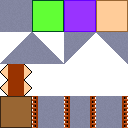
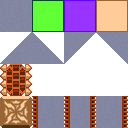
made crouching/crawling animations, slowed crawl speed, added delay before jump (small refactor)

Changed region(s): [[0.0, 0.5, 0.25, 1.0]]

diff --git a/src/platform_controls.js b/src/platform_controls.js
@@ -32,7 +32,7 @@ Crafty.c("PlatformControls", {
 		// Direction that we are facing in the x-direction.
 		this.dx = +1;
 		
-		this._upHeld = false;
+		this._isJumping = false;
 		this._forceRemaining = 0;
 		
 		this.invincible = false;
@@ -67,8 +67,8 @@ Crafty.c("PlatformControls", {
 					} else if (ev.control === "right") {
 						this.dx = +1;
 					}
-
-					if(this.keyDown("down")) {
+					
+					if(this.keyDown("down") && this.isGrounded()) {
 						this.trigger("Crawl");
 					} else {
 						this.trigger("Walk");
@@ -81,6 +81,11 @@ Crafty.c("PlatformControls", {
 						if (this.isGrounded()) {
 							this.trigger("Crouch");
 						}
+					}
+				} else if(ev.control === "jump") {
+					if(this.isGrounded() && !this._isJumping) {
+						this.trigger("Jump");
+						this._jump();
 					}
 				} else if(ev.control === "phase") {
 					this.attemptPhase = true;
@@ -121,6 +126,8 @@ Crafty.c("PlatformControls", {
 							this.trigger("Stand");
 						}
 					}
+				} else if(ev.control === "jump") {
+					this._isJumping = false;
 				}
 			},
 			
@@ -148,26 +155,17 @@ Crafty.c("PlatformControls", {
 				if(pushableLeft) {
 					pushableLeft.push([-1,0]);
 				}
-
-				if(!this.keyDown("up")) {
-					this._upHeld = false;
-				}
-				// Jump if on the ground and want to.
-				if(this.isGrounded() && this.keyDown("up") && !this._upHeld) {
-					this.trigger("Jump");
-					this.unstickFromGround();
-					this._upHeld = true;
-					this._forceRemaining = 2.0;
-				}
-				if(this._upHeld &&
-						this.keyDown("up") &&
-						this._forceRemaining > 0) {
-					this._forceRemaining -= 0.08;
+				
+				// The longer you hold the jump key, the higher you will go.
+				if(this._forceRemaining > 0) {
+					this._forceRemaining -= this.keyDown("jump") ? 0.08 : 0.25;
 					this._phY = this._phPY - this._forceRemaining - 2;
 				}
+				
+				var targetSpeed = this.isCrouching ? 0.9 : 2.8;
 
 				// The desired x vel.
-				var desvx = kx * 2.8;
+				var desvx = kx * targetSpeed;
 				// Add to the physics velocity.
 				// This depends on the player being in the ground or not.
 				if(!this.isGrounded()) {
@@ -186,7 +184,10 @@ Crafty.c("PlatformControls", {
 						this._vx = approach(this._vx, desvx, this.accelerateDV);
 					} else {
 						// Don't make them slow down when they're attempting to keep
-						// going!
+						// going! (Unless they're crawling).
+						if(this.isCrouching) {
+							this._vx = approach(this._vx, desvx, this.accelerateDV);
+						}
 					}
 				} else if(desvx == 0.0) {
 					// Player might want to stop.
@@ -246,20 +247,25 @@ Crafty.c("PlatformControls", {
 			
 			GroundLand:
 			function() {
-				// Trigger landing, walking, or crouching.
-				if(this.getControl("Horizontal") != 0) {
-					if(this.keyDown("down")) {
-						this.trigger("Crawl");
-					} else {
-						this.trigger("Walk");
-					}
+				// Trigger jumping, landing, walking, or crouching.
+				if(this.keyDown("jump")) {
+					this.trigger("Jump");
+					this._jump();
 				} else {
-					if(this.keyDown("down")) {
-						this.trigger("Crouch");
+					if(this.getControl("Horizontal") != 0) {
+						if(this.keyDown("down")) {
+							this.trigger("Crawl");
+						} else {
+							this.trigger("Walk");
+						}
 					} else {
-						this.trigger("Land");
+						if(this.keyDown("down")) {
+							this.trigger("Crouch");
+						} else {
+							this.trigger("Land");
+						}
+						this.trigger("Stand");
 					}
-					this.trigger("Stand");
 				}
 			},
 			
@@ -280,6 +286,15 @@ Crafty.c("PlatformControls", {
 	dxSelect:
 	function(leftValue, rightValue) {
 		return this.dx < 0 ? leftValue : rightValue;
+	},
+	
+	_jump:
+	function() {
+		this._isJumping = true;
+		this.timeout(function() {
+			this.unstickFromGround();
+			this._forceRemaining = 2.0;
+		}, 140);
 	}
 });
 

diff --git a/src/player.js b/src/player.js
@@ -116,11 +116,7 @@ Crafty.c("Player", {
 			})
 			.bind("Crawl", function(ev) {
 				this._setCollisionCrouch();
-				if (this.isGrounded()) {
-					this.animate(this.dxSelect("PlayerCrouchLeft", "PlayerCrouchRight"), -1);
-				} else {
-					this.animate(this.dxSelect("PlayerFallLeft", "PlayerFallRight"), -1);
-				}
+				this.animate(this.dxSelect("PlayerCrawlLeft", "PlayerCrawlRight"), -1);
 				this.isCrouching = true;
 			})
 		// Key handler
